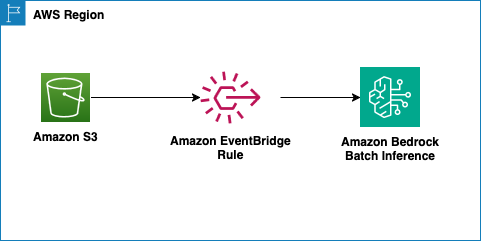
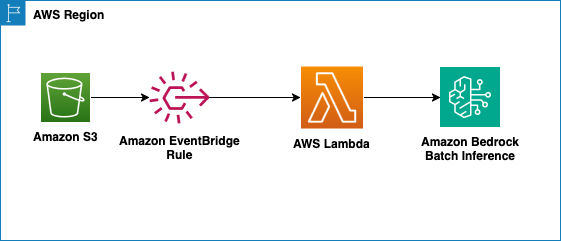
Fixed some review comments

diff --git a/s3-bedrock-batch-inference-cdk/bedrock_batch_inference/bedrock_batch_inference_pattern_stack.py b/s3-bedrock-batch-inference-cdk/bedrock_batch_inference/bedrock_batch_inference_pattern_stack.py
@@ -27,7 +27,7 @@ class BedrockBatchInferencePatternStack(Stack):
         # Create an S3 bucket with default encryption
         bucket = s3.Bucket(
             self,
-            "BedrockBatchInferenceBucket",
+            "BatchInfBucket",
             encryption=s3.BucketEncryption.S3_MANAGED,
             enforce_ssl=True,
             versioned=True,
@@ -60,6 +60,7 @@ class BedrockBatchInferencePatternStack(Stack):
 
         # Create EventBridge rule to trigger Bedrock model invocation when input.jsonl file is
         # uploaded to S3 under /input prefix
+        # Note: The AwsApi target creates an AWS-managed Lambda function that makes the actual API call
         events.Rule(
             self,
             "S3ToBedrockBatchInferenceRule",

diff --git a/s3-bedrock-batch-inference-cdk/README.md b/s3-bedrock-batch-inference-cdk/README.md
@@ -27,16 +27,49 @@ Important: this application uses various AWS services and there are costs associ
     ```shell
     cd s3-bedrock-batch-inference-cdk
     ```
-3. Deploy the stack by running the command below. Replace `ModelARN` with the arn of the model you want to use. For example, if you want to use **Claude 3.5 Sonnet** in **us-west-2** the ARN would be `arn:aws:bedrock:us-west-2::foundation-model/anthropic.claude-3-5-sonnet-20240620-v1:0`. See [Pre-requisites](#pre-requisites) section for more details.
+
+3. Create and activate a Python virtual environment:
+
+    ```shell
+    python3 -m venv .venv
+    source .venv/bin/activate
+    ```
+
+4. Install the required dependencies:
+
+    ```shell
+    pip3 install -r requirements.txt
+    ```
+
+5. Set your AWS region (replace `us-west-2` with your desired region):
+
+    ```shell
+    export AWS_REGION=us-west-2
+    ```
+
+6. Deploy the stack by running the command below. Replace `ModelARN` with the ARN of the model you want to use. For example, if you want to use **Claude 3.5 Sonnet** in **us-west-2** the ARN would be `arn:aws:bedrock:us-west-2::foundation-model/anthropic.claude-3-5-sonnet-20240620-v1:0`. 
+
+   **Note:** You can find the complete list of foundation model that support batch inference in the [AWS Bedrock documentation](https://docs.aws.amazon.com/bedrock/latest/userguide/batch-inference-supported.html). The ARN format is: `arn:aws:bedrock:<region>::foundation-model/<model-id>`
 
    ```shell
    cdk deploy --parameters ModelARN=<ARN of the model>
    ```
 
+   **Note:** You will be prompted to confirm the deployment. Type `y` and press Enter to proceed.
+
 ## How it works
 ![End to End Architecture](images/architecture.png)
 
-This pattern creates an S3 bucket to store the input and output of the batch inference job. It also creates an EventBridge rule that is triggered when a batch inference input file is uploaded. The rule target will create a new Bedrock batch inference job with the specified model and the sample input. The output of the job is also stored in the same S3 bucket.
+This pattern creates an S3 bucket to store the input and output of the batch inference job. It also creates an EventBridge rule that is triggered when a batch inference input file is uploaded. 
+
+When the EventBridge rule is triggered, it uses an AWS-managed Lambda function (created automatically by the `AwsApi` target) to call the Bedrock `createModelInvocationJob` API. This Lambda function creates a new Bedrock batch inference job with the specified model and the uploaded input file. The output of the batch inference job is stored in the same S3 bucket.
+
+**Architecture Flow:**
+1. Input file (`input.jsonl`) is uploaded to S3 bucket under `/input/` prefix
+2. S3 sends an event to EventBridge when the object is created
+3. EventBridge rule matches the event and triggers an AWS-managed Lambda function
+4. The Lambda function calls the Bedrock `createModelInvocationJob` API
+5. Bedrock processes the batch inference job and stores results in S3 under `/output/` prefix
 
 ## Testing
  - Once the pattern is deployed successfully you should see the name of the S3 bucket in the CDK output.
@@ -48,12 +81,17 @@ This pattern creates an S3 bucket to store the input and output of the batch inf
    ```shell
      aws bedrock list-model-invocation-jobs  | jq '.invocationJobSummaries[] | {jobArn, status, submitTime}'
    ```
- - Once the batch inference job's status is "Completed", you can check the results by navigating to the [S3 bucket](https://console.aws.amazon.com/s3/buckets?&bucketType=general) and checking the `output` prefix
+ - Once the batch inference job's status is "Completed" (this may take 30+ minutes), you can check the results by navigating to the [S3 bucket](https://console.aws.amazon.com/s3/buckets?&bucketType=general) and checking the `output` prefix
 
 
 ## Cleanup
 
-1. Delete the stack by running th command below:
+1. Empty the S3 bucket before deleting the stack:
+   ```bash
+   aws s3 rm s3://<S3 bucket name> --recursive
+   ```
+
+2. Delete the stack by running the command below:
    ```bash
    cdk destroy
    ```
